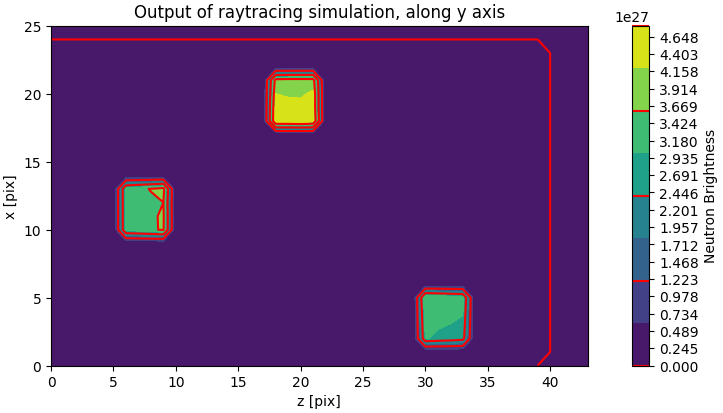
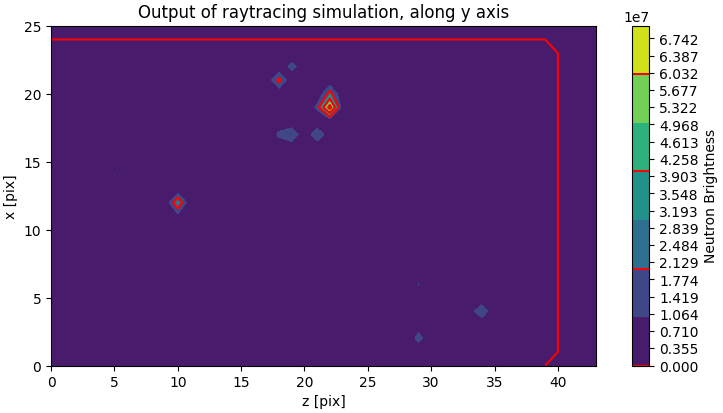
Latest working edition, after revising with Salman

diff --git a/config_fns.py b/config_fns.py
@@ -103,31 +103,37 @@ def read_data(data_path, filename):
 
     return field, field_loc
 
-def find_polarization(path_field, wavelength):
+def find_polarization(path_field, path, wavelength):
     """Calculates a neutron's polarization rate after passing through a magnetic field along its path.
     
     Args:
         path_field (np.array): The magnetic field values of each voxel the ray passes through.
         wavelength (float): The wavelength of the neutron.
+        path (np.array): The neutron's trajectory.
         P_0 (float): The initial polarization rate of the neutron. Defaults to 1.
 
     Returns:
         float: The polarization rate of the neutron.
     """
-    GAMMA = 1.83247171 * 10**8 # s^-1 T^-1
+    GAMMA = -1.83247171 * 10**8 # s^-1 T^-1
     h = 6.626 * 10**-34 # J*s
     m = 1.674 * 10**-27 # kg
     field_integral = np.sum(path_field, axis=0) # In the same unit as COMSOL's export
-    temp = GAMMA * m / h * field_integral
-    wavelength = wavelength * 10**-10 # m
-    dP = temp**2 * wavelength**2
 
-    dP = (dP[0]**2 + dP[1]**2 + dP[2]**2)**0.5 * 0.001
+    # Find the directional vector of the neutron's trajectory
+    d_vec = path[-1] - path[0]
+    d_vec = d_vec / np.linalg.norm(d_vec)
+
+    phi = 0
+    for count, field_vec in enumerate(field_integral):
+        phi += np.dot(field_vec, d_vec[count])
+
+    temp = (GAMMA * m) / h * phi
+    wavelength = wavelength * 10**-10 # m
+
+    dP = (temp*wavelength)**2
     # print(dP)
+
     P = (1 - dP) * main.INITIAL_POLARIZATION
 
-    # print(P)
-
     return P
-
-

diff --git a/main.py b/main.py
@@ -11,8 +11,8 @@ import os
 # # Put the input file path and file names here
 DATA_PATH = "E:/Documents and stuff/School_Stuff/_CSNS/PNI/COMSOL6.0(64bit)/Simulations/"
 # DATA_FILE = "Horseshoe.txt"
-DATA_FILE = "bar_magnet.txt"
-# DATA_FILE = "empty.txt"
+# DATA_FILE = "bar_magnet.txt"
+DATA_FILE = "empty.txt"
 
 # # Defines a source profile
 # # To use a uniform source profile, set SOURCE_PROFILE to None
@@ -21,11 +21,11 @@ DATA_FILE = "bar_magnet.txt"
 SOURCE_PROFILE = "gaussian"
 
 # # Specify in which axis is the neutron beam projected
-AXIS = "x" # Axis to be raytraced along, must be "x", "y", or "z"
+AXIS = "y" # Axis to be raytraced along, must be "x", "y", or "z"
 
 # # Physisc settings
-INITIAL_POLARIZATION = 0.85 # Initial polarization rate of the neutron
-WAVELENGTH = 7
+INITIAL_POLARIZATION = 0.99 # Initial polarization rate of the neutron
+WAVELENGTH = 2
 
 # # Misc settings
 PLOT_NAME = 'sim'
@@ -135,3 +135,4 @@ if __name__ == "__main__":
 
     plt.savefig(f"plots/{PLOT_NAME} {AXIS}.png")
     print(f"{datetime.now()} - Plot saved as {PLOT_NAME} {AXIS}.png")
+    plt.show()

diff --git a/ray_tracing_fns.py b/ray_tracing_fns.py
@@ -108,10 +108,10 @@ def ray_tracing_sim(field, pixel_pos, source):
             path_field, field_path = ray
 
         # Get each ray's polarization
-        p_ray = config_fns.find_polarization(path_field, main.WAVELENGTH)
+        p_ray = config_fns.find_polarization(path_field, field_path, main.WAVELENGTH)
         # NOTE: for now, the polarizatin is a scalar. In the future, it could be a vector.
 
-        i_ray = source_val * 0.5 * (p_ray - 1)
+        i_ray = source_val * 0.5 * (1 - p_ray)
 
         i_pix += i_ray
 
